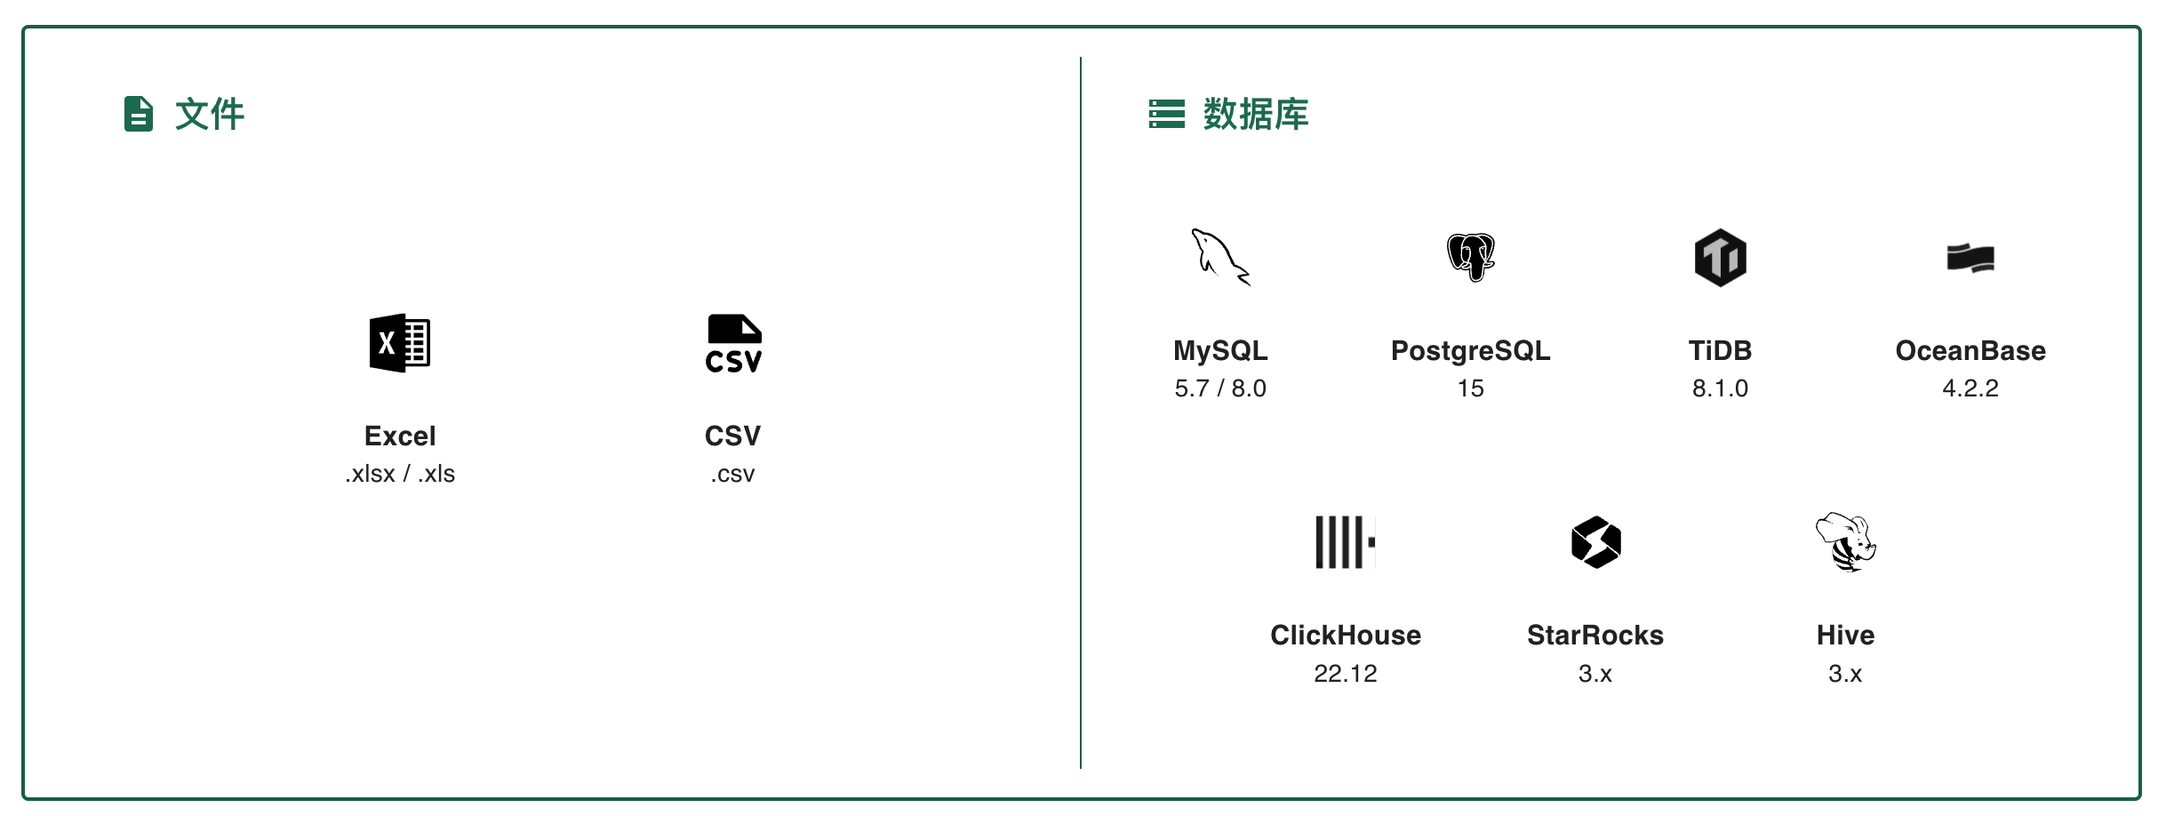
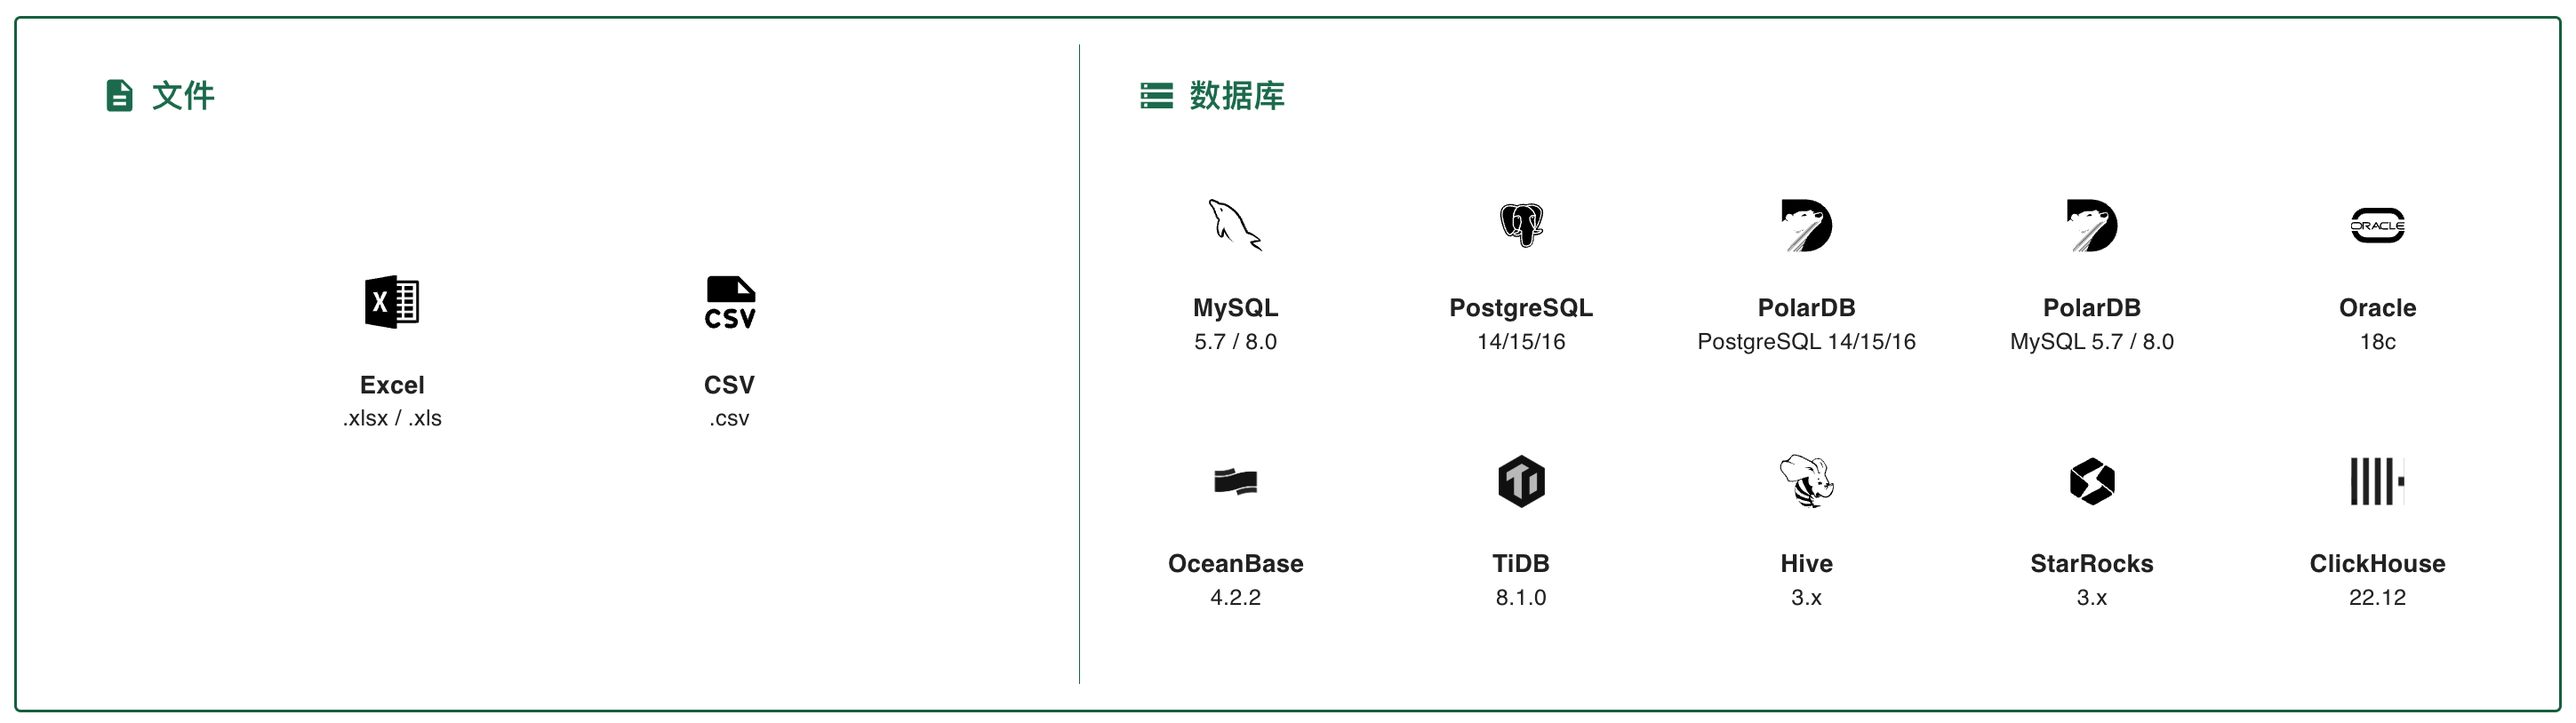
update support databases

diff --git a/at-docs-website/docs/datasource-management/supported-databases.md b/at-docs-website/docs/datasource-management/supported-databases.md
@@ -1,25 +1,28 @@
-# 支持的数据库类型
+# 支持的数据类型
 
-AskTable 支持多种类型的数据库和数据源，方便您灵活地集成不同的数据源进行查询和分析。以下是目前支持的数据源类型：
+AskTable 支持多种类型的数据库和文件，方便您灵活地集成不同的数据进行查询和分析。以下是目前支持的类型：
 
-## 支持的数据源类型
+## 支持的数据库或文件类型
 
 <div className="img-center xlarge">
   <img src="/img/asktable/at_datasource_supported_1.png" alt="Logo" />
 </div>
 
-| 数据源类型 | 支持版本 | 说明 |
+
+| 类型 | 支持版本 | 说明 |
 |------------|----------|------|
-| MySQL | 8.0 及以上 | 流行的开源数据库 |
-| PostgreSQL | 15 及以上 | 流行的开源数据库 |
-| TiDB | 8.1.0 及以上 | 分布式关系型数据库 |
+| MySQL | 5.7/8.0  | 流行的开源数据库 |
+| PostgreSQL | 14/15/16 | 流行的开源数据库 |
+| PolarDB MySQL | 5.7/8.0 | 阿里云-云原生数据库（MySQL 兼容） |
+| PolarDB PostgreSQL | 14/15/16 | 阿里云-云原生数据库（PostgreSQL 兼容） |
+| Oracle | 18c  | 主流商用关系型数据库 |
 | OceanBase | 4.2 及以上 | 分布式关系型数据库（MySQL 兼容） |
+| TiDB | 8.1.0 及以上 | 分布式关系型数据库 |
 | ClickHouse | 22.12 及以上 | 分布式列式数据库 |
 | StarRocks | 3.x | 分布式分析型数据库 |
 | Hive | 3.x | 分布式分析型数据库 |
 | Excel 文件 | .xlsx/.xls | - |
 | CSV 文件 | .csv | 支持常见分割符包括逗号、制表符等 |
-
 
 
 
